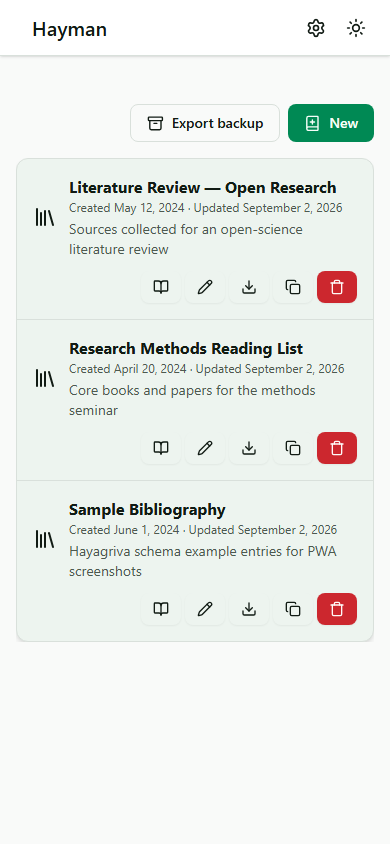
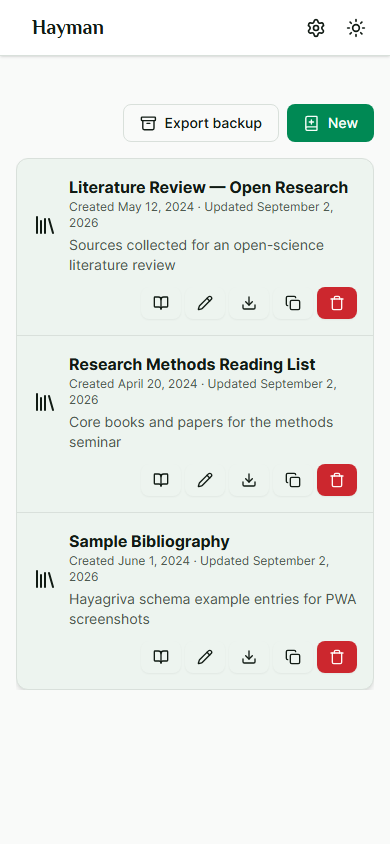
Use Adobe Fonts for Hayman typography

diff --git a/src/lib/utils/available-fonts.test.ts b/src/lib/utils/available-fonts.test.ts
@@ -2,6 +2,7 @@ import { describe, expect, it } from 'vitest';
 import {
   BUNDLED_FONT_OPTIONS,
   SYSTEM_FONT_OPTIONS,
+  formatFontFamilyLabel,
   isCssGenericFamily,
   toFontStack,
 } from '$lib/utils/available-fonts';
@@ -24,12 +25,17 @@ describe('available-fonts', () => {
   });
 
   it('lists bundled app fonts explicitly', () => {
-    expect(BUNDLED_FONT_OPTIONS.sans).toContain('IBM Plex Sans');
-    expect(BUNDLED_FONT_OPTIONS.sans).toContain('Source Sans 3');
-    expect(BUNDLED_FONT_OPTIONS.serif).toContain('IBM Plex Serif');
-    expect(BUNDLED_FONT_OPTIONS.serif).toContain('Source Serif 4');
-    expect(BUNDLED_FONT_OPTIONS.mono).toContain('IBM Plex Mono');
-    expect(BUNDLED_FONT_OPTIONS.mono).toContain('Source Code Pro');
+    expect(BUNDLED_FONT_OPTIONS.sans).toContain('inter-variable');
+    expect(BUNDLED_FONT_OPTIONS.sans).toContain('alegreya-sans-sc');
+    expect(BUNDLED_FONT_OPTIONS.serif).toContain('adobe-garamond-pro');
+    expect(BUNDLED_FONT_OPTIONS.serif).toContain('alegreya-sc');
+    expect(BUNDLED_FONT_OPTIONS.mono).toContain('courier-std');
+    expect(BUNDLED_FONT_OPTIONS.mono).toContain('source-code-variable');
+  });
+
+  it('shows readable labels for Adobe family identifiers', () => {
+    expect(formatFontFamilyLabel('inter-variable')).toBe('Inter Variable');
+    expect(formatFontFamilyLabel('courier-std')).toBe('Courier');
   });
 
   it('always includes portable system stacks', () => {

diff --git a/src/lib/utils/available-fonts.ts b/src/lib/utils/available-fonts.ts
@@ -20,12 +20,43 @@ export const SYSTEM_FONT_OPTIONS = {
   mono: ['ui-monospace', 'monospace'],
 } as const;
 
-/** Webfonts bundled with the app (see layout.css imports). */
+/** Webfonts provided by the app's IBM packages and Adobe Fonts kit. */
 export const BUNDLED_FONT_OPTIONS = {
-  sans: ['IBM Plex Sans', 'Source Sans 3'],
-  serif: ['IBM Plex Serif', 'Source Serif 4'],
-  mono: ['IBM Plex Mono', 'Source Code Pro'],
+  sans: [
+    'inter-variable',
+    'philosopher',
+    'rosario',
+    'alegreya-sans',
+    'alegreya-sans-sc',
+    'IBM Plex Sans',
+  ],
+  serif: [
+    'adobe-garamond-pro',
+    'merriweather',
+    'alegreya',
+    'alegreya-sc',
+    'IBM Plex Serif',
+  ],
+  mono: ['courier-std', 'source-code-variable', 'IBM Plex Mono'],
 } as const;
+
+const FONT_FAMILY_LABELS: Record<string, string> = {
+  'adobe-garamond-pro': 'Adobe Garamond Pro',
+  merriweather: 'Merriweather',
+  philosopher: 'Philosopher',
+  rosario: 'Rosario',
+  alegreya: 'Alegreya',
+  'alegreya-sc': 'Alegreya SC',
+  'alegreya-sans': 'Alegreya Sans',
+  'alegreya-sans-sc': 'Alegreya Sans SC',
+  'inter-variable': 'Inter Variable',
+  'courier-std': 'Courier',
+  'source-code-variable': 'Source Code Variable',
+};
+
+export function formatFontFamilyLabel(family: string): string {
+  return FONT_FAMILY_LABELS[family] ?? family;
+}
 
 export type FontCategory = keyof AppFontSettings;
 

diff --git a/src/routes/settings/+page.svelte b/src/routes/settings/+page.svelte
@@ -5,7 +5,10 @@
   import { reinitTypstPreview } from '$lib/services/typst-preview.service';
   import { SettingsService } from '$lib/services/settings.service';
   import { CUSTOM_CSL_STYLE } from '$lib/utils/citation-style';
-  import { listAvailableFonts } from '$lib/utils/available-fonts';
+  import {
+    formatFontFamilyLabel,
+    listAvailableFonts,
+  } from '$lib/utils/available-fonts';
   import {
     DEFAULT_APP_SETTINGS,
     type AppSettings,
@@ -155,7 +158,7 @@
         disabled={fontsLoading}
       >
         {#each availableFonts.sans as font (font)}
-          <option value={font}>{font}</option>
+          <option value={font}>{formatFontFamilyLabel(font)}</option>
         {/each}
       </select>
 
@@ -167,7 +170,7 @@
         disabled={fontsLoading}
       >
         {#each availableFonts.serif as font (font)}
-          <option value={font}>{font}</option>
+          <option value={font}>{formatFontFamilyLabel(font)}</option>
         {/each}
       </select>
 
@@ -179,7 +182,7 @@
         disabled={fontsLoading}
       >
         {#each availableFonts.mono as font (font)}
-          <option value={font}>{font}</option>
+          <option value={font}>{formatFontFamilyLabel(font)}</option>
         {/each}
       </select>
     </fieldset>

diff --git a/src/routes/layout.css b/src/routes/layout.css
@@ -1,12 +1,8 @@
+@import url('https://use.typekit.net/nai0eio.css');
+
 @import '@ibm/plex-sans/css/ibm-plex-sans-all';
 @import '@ibm/plex-mono/css/ibm-plex-mono-all';
 @import '@ibm/plex-serif/css/ibm-plex-serif-all';
-@import '@fontsource/source-sans-3/400.css';
-@import '@fontsource/source-sans-3/600.css';
-@import '@fontsource/source-serif-4/400.css';
-@import '@fontsource/source-serif-4/600.css';
-@import '@fontsource/source-code-pro/400.css';
-@import '@fontsource/source-code-pro/600.css';
 
 @import 'tailwindcss';
 @plugin '@tailwindcss/forms';
@@ -15,9 +11,9 @@
 @custom-variant dark (&:where(.dark, .dark *));
 
 @theme {
-  --font-sans: system-ui, sans-serif;
-  --font-mono: ui-monospace, monospace;
-  --font-serif: ui-serif, serif;
+  --font-sans: 'inter-variable', system-ui, sans-serif;
+  --font-mono: 'courier-std', ui-monospace, monospace;
+  --font-serif: 'adobe-garamond-pro', ui-serif, serif;
 
   --color-background: oklch(0.985 0.002 155);
   --color-foreground: oklch(0.21 0.02 155);
@@ -192,6 +188,11 @@
 
   .navbar {
     @apply flex h-14 items-center border-b border-border bg-card px-4 shadow-sm;
+  }
+
+  .brand-logo {
+    font-family: 'philosopher', sans-serif;
+    font-weight: 700;
   }
 
   .list {

diff --git a/src/lib/types/app-settings.ts b/src/lib/types/app-settings.ts
@@ -18,13 +18,13 @@ export interface AppSettings {
   citation: AppCitationSettings;
 }
 
-/** Portable defaults — never assume a proprietary or app-bundled face is present. */
+/** Adobe Fonts defaults with portable fallbacks applied by `applyFontSettings`. */
 export const DEFAULT_APP_SETTINGS: AppSettings = {
   id: SETTINGS_ROW_ID,
   fonts: {
-    sans: 'system-ui',
-    serif: 'serif',
-    mono: 'monospace',
+    sans: 'inter-variable',
+    serif: 'adobe-garamond-pro',
+    mono: 'courier-std',
   },
   citation: {
     defaultStyle: 'ieee',

diff --git a/src/routes/+layout.svelte b/src/routes/+layout.svelte
@@ -22,7 +22,7 @@
 <MutationToastHost />
 
 <header class="navbar">
-  <a href={resolve('/')} class="btn btn-ghost text-xl">Hayman</a>
+  <a href={resolve('/')} class="brand-logo btn btn-ghost text-xl">Hayman</a>
   <div class="ml-auto flex items-center gap-1">
     <a
       href="{resolve('/settings')}?from={settingsFrom}"
